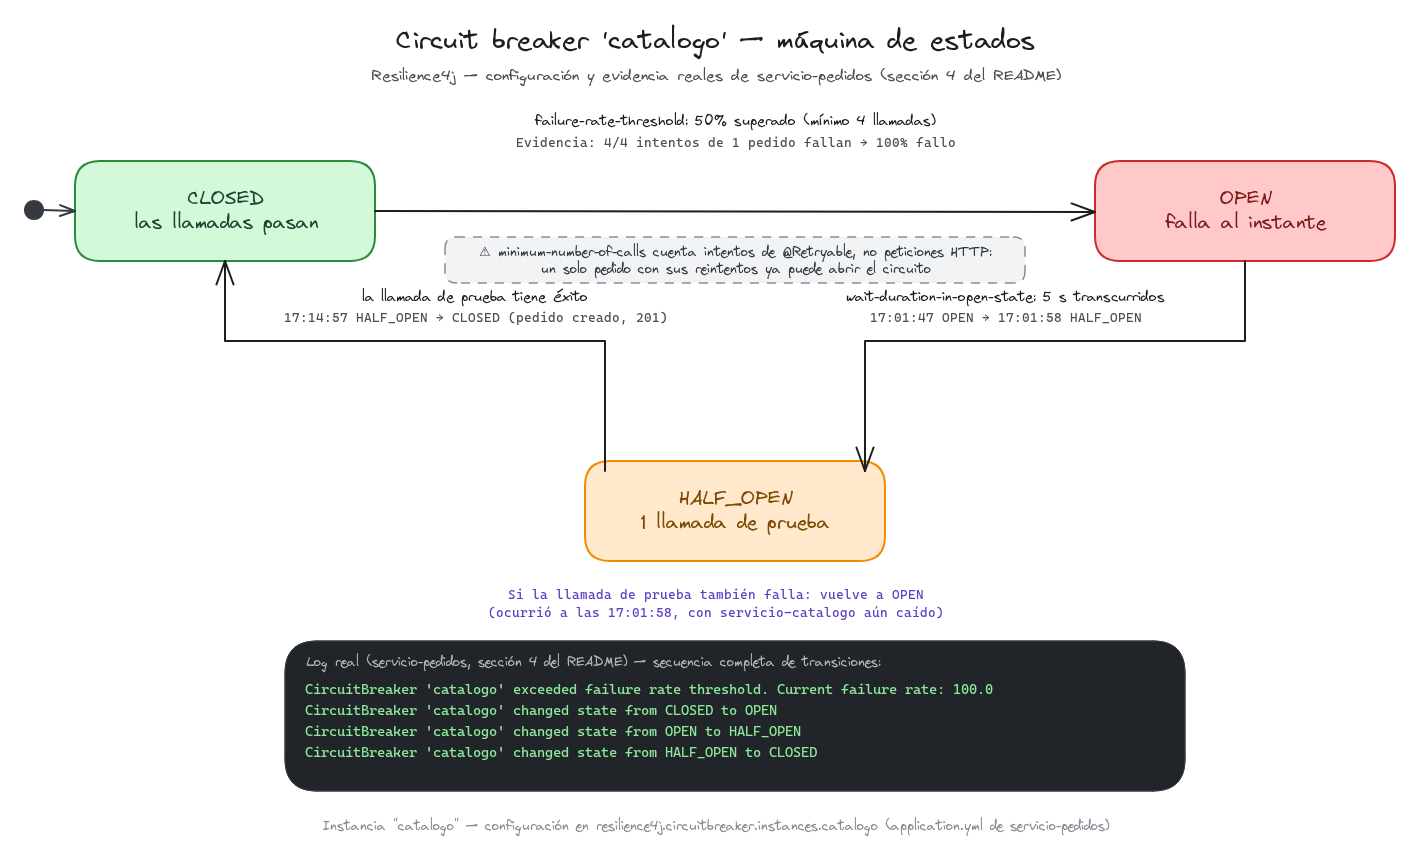
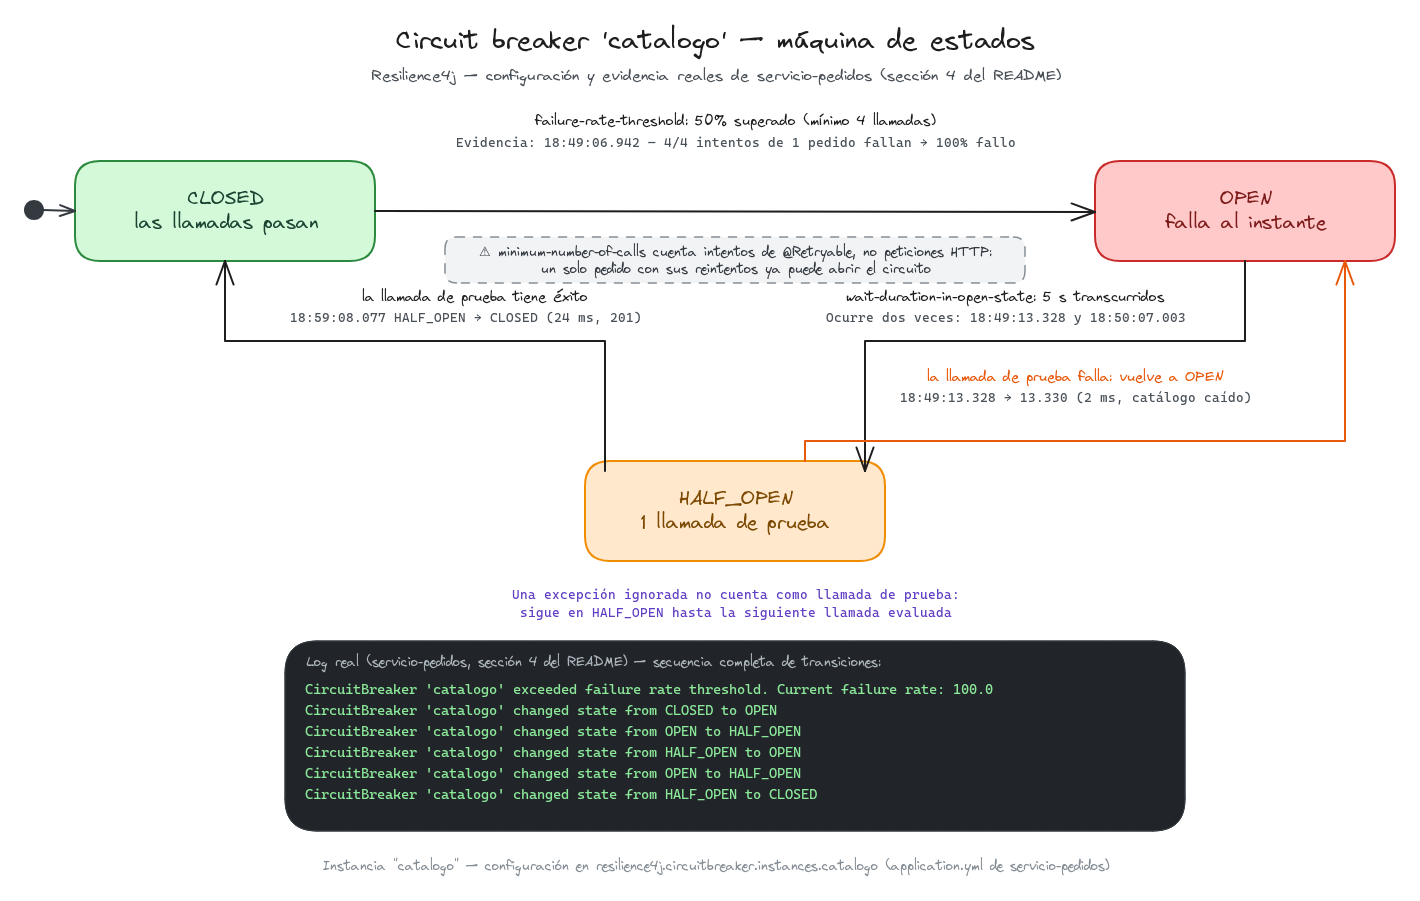
Capítulo 8: pulir la sección del circuit breaker con evidencia real completa
Traducción de Bulkhead fijada a "compartimento estanco" (sin "mamparo") en
GLOSARIO.md, README.md y CHECKLIST.md. En la sección 4, se reescribe la
explicación de por qué el circuit breaker envuelve cada intento de
@user como una decisión de diseño en vez de un hallazgo fruto de un
experimento fallido, y se detallan uno a uno los parámetros de
sliding-window-size/minimum-number-of-calls/failure-rate-threshold/
wait-duration-in-open-state/permitted-number-of-calls-in-half-open-state.

La sección 5.1 y el diagrama Excalidraw se rehacen con una traza real de
cuatro peticiones encadenadas (capturada con TRACE + DEBUG de
io.github.resilience4j), que revela y documenta la transición HALF_OPEN →
OPEN que faltaba y el caso de una excepción ignorada que no cierra el
circuito. Los curl de la demostración manual pasan a usar jq donde el
código HTTP no basta para distinguir resultados (petición concurrente y
petición final de éxito), con una nota explicando el ruido de control de
trabajos del shell en la ejecución en paralelo.

diff --git a/README.md b/README.md
@@ -129,7 +129,7 @@ Se puede comprobar el efecto real deteniendo `servicio-catalogo` y creando un pe
 
 ## 3. Límite de concurrencia con `@ConcurrencyLimit`
 
-El reintento de la sección anterior protege frente a un fallo puntual, pero no frente a otro escenario distinto: `servicio-catalogo` respondiendo *lento* en vez de fallando. Si llegan muchas creaciones de pedido a la vez y cada una se queda esperando esa respuesta lenta, las llamadas concurrentes hacia el catálogo se acumulan sin límite — y con ellas, los hilos de `servicio-pedidos` que las esperan. El **Límite de concurrencia** (Concurrency Limit) — una variante del patrón clásico Bulkhead (mamparo/compartimento estanco) — acota cuántas invocaciones de un método pueden estar en curso a la vez, para que un catálogo lento agote su propia capacidad, no la de quien lo llama.
+El reintento de la sección anterior protege frente a un fallo puntual, pero no frente a otro escenario distinto: `servicio-catalogo` respondiendo *lento* en vez de fallando. Si llegan muchas creaciones de pedido a la vez y cada una se queda esperando esa respuesta lenta, las llamadas concurrentes hacia el catálogo se acumulan sin límite — y con ellas, los hilos de `servicio-pedidos` que las esperan. El **Límite de concurrencia** (Concurrency Limit) — una variante del patrón clásico Bulkhead (compartimento estanco) — acota cuántas invocaciones de un método pueden estar en curso a la vez, para que un catálogo lento agote su propia capacidad, no la de quien lo llama.
 
 Se aplica con `@ConcurrencyLimit`, apilada junto a `@Retryable` sobre el mismo método:
 
@@ -275,15 +275,33 @@ resilience4j:
           - org.springframework.resilience.InvocationRejectedException
 ```
 
+Uno a uno:
+
+- `sliding-window-size`: **de cuántas llamadas se acuerda** Resilience4j. Imagínalo como una cola de capacidad fija de `4` casillas donde se apila el resultado (éxito/fallo) de cada llamada; al llegar una quinta llamada, la más antigua se descarta para dejar sitio. Esta cola es lo único que se usa para calcular la tasa de fallo — nunca mira más atrás.
+- `minimum-number-of-calls`: **a partir de cuántas llamadas** Resilience4j se atreve a calcular esa tasa de fallo. Con solo 1 llamada registrada, un único fallo daría una tasa de fallo del 100 %, pero un caso no es una muestra fiable de que `servicio-catalogo` esté realmente caído — así que hasta no reunir `4` llamadas en la cola, Resilience4j ni siquiera calcula el porcentaje, y el circuito no puede abrirse por mucho que fallen las primeras llamadas.
+- `failure-rate-threshold`: el umbral, en porcentaje, que dispara la apertura del circuito una vez cumplido `minimum-number-of-calls`. Aquí, `50` — en cuanto la mitad o más de las llamadas de la cola son fallos, `CLOSED` pasa a `OPEN`.
+- `wait-duration-in-open-state`: cuánto tiempo se queda el circuito en `OPEN`, fallando al instante sin ni siquiera intentar la llamada real, antes de darle a `servicio-catalogo` una oportunidad de demostrar que se ha recuperado. Aquí, `5s`.
+- `permitted-number-of-calls-in-half-open-state`: pasada esa espera, cuántas llamadas de prueba deja pasar el circuito en `HALF_OPEN` para decidir si vuelve a `CLOSED` o si vuelve a `OPEN`. Aquí, `1` — basta con que esa única llamada de prueba tenga éxito para cerrar el circuito otra vez, o con que falle para reabrirlo.
+- `ignore-exceptions`: qué excepciones no cuentan como "fallo" a efectos de la cola, aunque la llamada termine en error — se explica en detalle más abajo, es la decisión más importante de este bloque.
+
+`sliding-window-size` y `minimum-number-of-calls` son los dos que más se prestan a confusión, porque aquí comparten el mismo valor. Responden a preguntas distintas — uno es la memoria, el otro el arranque —, y con la configuración de este capítulo, `4` y `4`, el rastro sería así:
+
+```
+Llamada 1 (falla): cola = [F]          → 1 de 4 registradas, aún sin evaluar
+Llamada 2 (falla): cola = [F,F]        → 2 de 4 registradas, aún sin evaluar
+Llamada 3 (falla): cola = [F,F,F]      → 3 de 4 registradas, aún sin evaluar
+Llamada 4 (falla): cola = [F,F,F,F]    → 4 de 4 registradas → ya se evalúa: 4/4 = 100 % ≥ 50 % → CLOSED pasa a OPEN
+```
+
+Que ambos valgan lo mismo no es casualidad: significa que la primera evaluación posible coincide exactamente con el momento en que la cola se llena por primera vez, sin ningún hueco intermedio. Si `minimum-number-of-calls` fuera menor que `sliding-window-size` (p. ej. `2` con una ventana de `4`), Resilience4j empezaría a evaluar antes de que la cola llegara a llenarse — el circuito podría abrirse ya con solo 2 llamadas fallidas, sin esperar a las otras 2 casillas.
+
 `ignore-exceptions` es la decisión más importante de este bloque, con el mismo espíritu que el `includes` de `@Retryable` en la sección 2: un `404` legítimo (`ProductoInexistenteException` — el producto de verdad no existe) no es una señal de que el catálogo esté fallando, y un rechazo por saturación propia (`InvocationRejectedException` — nuestra propia sección 3 autolimitándose) tampoco lo es. Sin excluirlas, ambas contarían como "fallos" en la ventana de Resilience4j y podrían abrir el circuito por motivos que nada tienen que ver con la salud real de `servicio-catalogo`.
 
-### Un descubrimiento al combinar los tres: el circuit breaker envuelve cada intento, no la llamada completa
+### El circuit breaker envuelve cada intento, no la llamada completa
 
-Al escribir esta sección apareció un primer diseño que parecía razonable pero resultó estar mal: un segundo método de `fallback` para `ResourceAccessException` (además del de `CallNotPermittedException`), pensado para traducir también el fallo de "reintentos agotados con el circuito aún cerrado" a un `ProblemDetail` propio. Al probarlo, los reintentos de la sección 2 dejaron de funcionar — cada llamada fallaba en 1 ms, sin ningún backoff.
+Resilience4j envuelve cada **intento individual** de `@Retryable`, no la llamada externa completa — una precisión clave a la hora de diseñar el `fallback` de la sección anterior. Por eso solo existe un método de `fallback`, para `CallNotPermittedException` (circuito abierto): un segundo `fallback` para `ResourceAccessException`, pensado para traducir a un `ProblemDetail` propio el fallo de "reintentos agotados con el circuito aún cerrado", rompería los reintentos de la sección 2. En cuanto el primer intento fallara con `ResourceAccessException`, Resilience4j lo interceptaría y lo convertiría en `CatalogoNoDisponibleException` antes de que `@Retryable` pudiera verlo — y como esa excepción no está en su `includes`, `@Retryable` abortaría sin reintentar. El `fallback` del circuit breaker se "comería" la excepción que los reintentos necesitan ver.
 
-La causa: Resilience4j envuelve cada **intento individual** de `@Retryable`, no la llamada externa completa. Con ese segundo `fallback` registrado, en cuanto el primer intento fallaba con `ResourceAccessException`, Resilience4j lo interceptaba y lo convertía en `CatalogoNoDisponibleException` antes de que `@Retryable` pudiera verlo — y como esa excepción no está en su `includes`, `@Retryable` abortaba sin reintentar. El `fallback` de la circuitbreaker "se comía" la excepción que los reintentos necesitaban ver.
-
-La solución fue quitar ese segundo `fallback` y dejar que `ResourceAccessException` se propague sin traducir cuando el circuito está cerrado — así `@Retryable` la ve tal cual y reintenta con normalidad. Si los 4 intentos se agotan sin que el circuito llegue a abrirse, la excepción llega intacta hasta `ControladorErroresGlobal`, que la traduce directamente (sin pasar por Resilience4j):
+Por eso `ResourceAccessException` se deja propagar sin traducir mientras el circuito está cerrado: así `@Retryable` la ve tal cual y reintenta con normalidad. Si los 4 intentos se agotan sin que el circuito llegue a abrirse, la excepción llega intacta hasta `ControladorErroresGlobal`, que la traduce directamente (sin pasar por Resilience4j):
 
 ```java
 // servicio-pedidos/.../infraestructura/adaptador/entrada/rest/ControladorErroresGlobal.java
@@ -302,20 +320,30 @@ Esto también explica por qué el circuito puede abrirse **dentro de una sola pe
 Prueba real, encadenada:
 
 ```
-Petición 1 (circuito CLOSED): 4 intentos con backoff real (~1,55 s) → los 4 fallan → CLOSED pasa a OPEN
-                               → responde 503 "Catálogo no disponible" (vía ResourceAccessException)
-Petición 2 (circuito OPEN):   falla al instante (0,24 s) → CallNotPermittedException → fallback
-                               → responde 503 "Catálogo no disponible" (vía CatalogoNoDisponibleException, con productoId)
-[...servicio-catalogo se levanta...]
-Petición 3 (pasada la ventana de 5 s, circuito en HALF_OPEN): la llamada de prueba llega de verdad al catálogo,
-                               tiene éxito → HALF_OPEN pasa a CLOSED → responde 201 (pedido creado con normalidad)
+Petición 1 (18:49:05, circuito CLOSED):     4 intentos con backoff real (~1,57 s) → los 4 fallan → CLOSED pasa a OPEN
+                                             → responde 503 "Catálogo no disponible" (vía ResourceAccessException)
+Petición 2 (18:49:13, circuito OPEN):       pasados >5 s, el circuito ya está en HALF_OPEN al llegar la petición
+                                             → la llamada de prueba falla (catálogo aún caído) → HALF_OPEN vuelve a OPEN al instante (2 ms)
+                                             → responde 503 "Catálogo no disponible" (vía CatalogoNoDisponibleException, con productoId)
+[...servicio-catalogo se levanta, todavía sin el producto de prueba creado...]
+Petición 3 (18:50:07, circuito OPEN):       pasados otros >5 s, el circuito pasa a HALF_OPEN de nuevo
+                                             → la llamada de prueba llega de verdad al catálogo, pero el producto no existe (404)
+                                             → ProductoInexistenteException, ignorada por ignore-exceptions: ni cuenta como fallo
+                                               ni cierra el circuito — se queda en HALF_OPEN
+[...se crea un producto real en servicio-catalogo...]
+Petición 4 (18:59:08, circuito HALF_OPEN):  la llamada de prueba tiene éxito (24 ms) → HALF_OPEN pasa a CLOSED
+                                             → responde 201 (pedido creado con normalidad)
 ```
+
+La petición 3 deja una precisión interesante sobre `permitted-number-of-calls-in-half-open-state`: una excepción ignorada no cuenta como una de esas llamadas de prueba permitidas — ni a favor ni en contra —, así que el circuito se queda esperando en `HALF_OPEN` una llamada que sí se evalúe de verdad, por mucho tiempo que pase entre medias (aquí, más de 8 minutos).
 
 Y en los logs, la secuencia completa de transiciones de estado:
 
 ```
 CircuitBreaker 'catalogo' exceeded failure rate threshold. Current failure rate: 100.0
 CircuitBreaker 'catalogo' changed state from CLOSED to OPEN
+CircuitBreaker 'catalogo' changed state from OPEN to HALF_OPEN
+CircuitBreaker 'catalogo' changed state from HALF_OPEN to OPEN
 CircuitBreaker 'catalogo' changed state from OPEN to HALF_OPEN
 CircuitBreaker 'catalogo' changed state from HALF_OPEN to CLOSED
 ```
@@ -328,13 +356,27 @@ Hay dos formas de comprobar todo lo anterior: una demostración manual (parando 
 
 ### 5.1. Demostración manual
 
-Con `servicio-catalogo` **parado** y `servicio-pedidos` arrancado con el log de resiliencia en `TRACE` para ver reintentos y transiciones del circuito en los logs (`./mvnw -pl servicio-pedidos spring-boot:run -Dspring-boot.run.arguments=--logging.level.org.springframework.resilience=TRACE`), cada creación de pedido reintenta y acaba fallando:
+Con `servicio-catalogo` **parado**, arranca `servicio-pedidos` con el log de resiliencia en `TRACE` para ver reintentos y transiciones del circuito en los logs:
 
 ```bash
-curl -s -o /dev/null -w "%{http_code}\n" -X POST http://localhost:8081/api/pedidos \
+./mvnw -pl servicio-pedidos spring-boot:run -Dspring-boot.run.arguments=--logging.level.org.springframework.resilience=TRACE
+```
+
+> **¿Por qué estos `curl` no muestran el cuerpo de la respuesta?**
+>
+> A diferencia de los `curl` de capítulos anteriores, aquí lo único que interesa para observar la resiliencia es el código HTTP y cuánto ha tardado la petición — no el JSON devuelto. Tres flags nuevas lo consiguen:
+>
+> - `-s` (silent): no mostrar la barra de progreso de `curl`.
+> - `-o /dev/null`: descartar el cuerpo de la respuesta.
+> - `-w "%{http_code} (%{time_total}s)\n"` (write-out): en vez del cuerpo, imprimir esta plantilla con dos variables que `curl` rellena al terminar la petición — `%{http_code}` (el código HTTP) y `%{time_total}` (segundos totales, con decimales).
+
+Cada creación de pedido reintenta y acaba fallando:
+
+```bash
+curl -s -o /dev/null -w "%{http_code} (%{time_total}s)\n" -X POST http://localhost:8081/api/pedidos \
   -H "Content-Type: application/json" \
   -d '{"clienteId":"3fa85f64-5717-4562-b3fc-2c963f66afa6","lineas":[{"productoId":"3fa85f64-5717-4562-b3fc-2c963f66afaa","cantidad":1}]}'
-# La primera petición tarda ~1,5 s (4 intentos con backoff) y devuelve 503 "Catálogo no disponible";
+# 503 (1.55s) — 4 intentos con backoff antes de responder "Catálogo no disponible";
 # con minimum-number-of-calls=4, esos mismos 4 intentos ya bastan para abrir el circuito.
 ```
 
@@ -347,25 +389,47 @@ curl -s -o /dev/null -w "%{http_code} (%{time_total}s)\n" -X POST http://localho
 # 503 (0.24s) — CallNotPermittedException -> catalogoNoDisponible, sin tocar la red
 ```
 
-Lanzando 3 peticiones concurrentes (`limit = 2` en `@ConcurrencyLimit`) se ve el rechazo por saturación, distinto del anterior:
+Lanzando 3 peticiones concurrentes (`limit = 2` en `@ConcurrencyLimit`) se ve el rechazo por saturación, distinto del anterior — pero aquí `%{http_code}` no sirve: los dos errores posibles (circuito abierto y saturación por concurrencia) responden el mismo `503`. La única forma de distinguirlos es el propio cuerpo de la respuesta (el campo `title` del `ProblemDetail`), así que esta vez sí lo conservamos — sin `-o /dev/null` — y lo extraemos con `jq`:
 
 ```bash
 for i in 1 2 3; do
-  curl -s -o /dev/null -w "req$i: %{http_code}\n" -X POST http://localhost:8081/api/pedidos \
+  curl -s -X POST http://localhost:8081/api/pedidos \
     -H "Content-Type: application/json" \
-    -d '{"clienteId":"3fa85f64-5717-4562-b3fc-2c963f66afa6","lineas":[{"productoId":"3fa85f64-5717-4562-b3fc-2c963f66afaa","cantidad":1}]}' &
+    -d '{"clienteId":"3fa85f64-5717-4562-b3fc-2c963f66afa6","lineas":[{"productoId":"3fa85f64-5717-4562-b3fc-2c963f66afaa","cantidad":1}]}' \
+    | jq -r --arg i "$i" '"req\($i): " + .title' &
 done
 wait
-# req1/req2: 503 "Catálogo no disponible" — req3: 503 "Catálogo saturado" (InvocationRejectedException)
+# Dos peticiones: "Catálogo no disponible" (circuito ya OPEN) — una: "Catálogo saturado" (InvocationRejectedException)
+# El orden de las tres líneas en la consola varía entre ejecuciones: se lanzan en paralelo con `&`.
 ```
 
-Y levantando `servicio-catalogo` (con al menos un producto creado) y esperando los `wait-duration-in-open-state: 5s` configurados, la siguiente petición ya se sirve con normalidad — la llamada de prueba en `HALF_OPEN` tiene éxito y cierra el circuito:
+> **¿Y esas líneas con corchetes tipo `[2] 61154 61155`?**
+>
+> Son del propio shell (aquí `zsh`), no de `curl` ni de `jq`: cada vez que se lanza un proceso en segundo plano con `&` se le asigna un número de trabajo y se muestran sus PID — dos en este caso, uno por cada lado de la tubería `curl | jq`. Al terminar, el shell imprime además una línea `[N]  + done  <comando>` por cada trabajo. Es ruido de control de trabajos intercalado con la salida real (`req1: ...`, `req2: ...`, `req3: ...`); se puede ignorar sin más, y no aparecería si el bucle se ejecutara desde un script en vez de pegarlo directamente en una sesión interactiva. Una ejecución real tiene este aspecto:
+>
+> ```
+> [2] 61154 61155
+> [3] 61156 61157
+> [4] 61158 61159
+> req3: Catálogo saturado
+> [4]  + done       curl -s -X POST http://localhost:8081/api/pedidos -H  -d  | jq -r --arg i "$i" '"req\($i): " + .title'
+> req2: Catálogo no disponible
+> [3]  + done       curl -s -X POST http://localhost:8081/api/pedidos -H  -d  | jq -r --arg i "$i" '"req\($i): " + .title'
+> req1: Catálogo no disponible
+> [2]  + done       curl -s -X POST http://localhost:8081/api/pedidos -H  -d  | jq -r --arg i "$i" '"req\($i): " + .title'
+> ```
+>
+> Las tres líneas que importan son `req3: Catálogo saturado`, `req2: Catálogo no disponible` y `req1: Catálogo no disponible` — el resto es control de trabajos del shell.
+
+Y levantando `servicio-catalogo` (con al menos un producto creado) y esperando los `wait-duration-in-open-state: 5s` configurados, la siguiente petición ya se sirve con normalidad — la llamada de prueba en `HALF_OPEN` tiene éxito y cierra el circuito. Al contrario que en los `curl` anteriores, aquí lo interesante ya no es el código HTTP ni el tiempo, sino el propio pedido creado — así que en vez de descartarlo lo extraemos con `jq`, igual que en la petición concurrente:
 
 ```bash
 curl -s -X POST http://localhost:8081/api/pedidos \
   -H "Content-Type: application/json" \
-  -d '{"clienteId":"3fa85f64-5717-4562-b3fc-2c963f66afa6","lineas":[{"productoId":"<productoId-real>","cantidad":2}]}'
-# 201 Created — el pedido se crea con normalidad
+  -d '{"clienteId":"3fa85f64-5717-4562-b3fc-2c963f66afa6","lineas":[{"productoId":"<productoId-real>","cantidad":2}]}' \
+  | jq -r '"pedido creado: " + .id + " (total: " + (.total | tostring) + ")"'
+# pedido creado: 3fa85f64-5717-4562-b3fc-2c963f66afab (total: 39.98)
+# Si jq consigue parsear un PedidoDTO válido, la petición ha respondido 201 — no hace falta comprobar el código aparte.
 ```
 
 ### 5.2. Test de integración con `MockRestServiceServer`

diff --git a/CHECKLIST.md b/CHECKLIST.md
@@ -75,7 +75,7 @@ Descartados por forzados para este dominio o sin desarrollo futuro: Spring for A
 
 ## Resiliencia
 - [x] Reintentos — `@Retryable` nativo de Spring Framework 7 (`@EnableResilientMethods`, capítulo 8) sobre la llamada de `servicio-pedidos` a `servicio-catalogo`; acotado a `ResourceAccessException` (fallo de red/timeout) para no reintentar el `404` de negocio (`ProductoInexistenteException`)
-- [x] Límite de concurrencia — `@ConcurrencyLimit` (capítulo 8), política `REJECT` (variante del patrón Bulkhead) para fallar rápido en vez de acumular hilos de `servicio-pedidos` esperando a un catálogo lento
+- [x] Límite de concurrencia — `@ConcurrencyLimit` (capítulo 8), política `REJECT` (variante del patrón Bulkhead, compartimento estanco) para fallar rápido en vez de acumular hilos de `servicio-pedidos` esperando a un catálogo lento
 - [x] Circuit breaker — Resilience4j (capítulo 8), no Spring Cloud Circuit Breaker (superseded); máquina de estados `CLOSED`/`OPEN`/`HALF_OPEN` verificada tanto manualmente como con test de integración (`MockRestServiceServer`)
 
 ## Procesamiento por lotes

diff --git a/GLOSARIO.md b/GLOSARIO.md
@@ -33,7 +33,7 @@ Documentación interna de desarrollo (como `CLAUDE.md`/`CHECKLIST.md`): no forma
 | Capa Anticorrupción | Anti-Corruption Layer | Traduce la respuesta de un Contexto Delimitado ajeno (p. ej. `servicio-catalogo`) a un tipo propio del Contexto que la consume, en vez de propagar el contrato externo tal cual |
 | Reintento | Retry | Mecanismo de resiliencia que repite una operación fallida un número acotado de veces, normalmente con espera creciente (backoff exponencial) entre intentos, antes de propagar el fallo definitivamente |
 | — | Backoff | Estrategia de espera creciente entre reintentos sucesivos (típicamente duplicando el tiempo de espera en cada intento, "backoff exponencial"); sin traducción española de uso consolidado |
-| Límite de concurrencia | Concurrency Limit | Acota cuántas invocaciones de un método pueden estar en curso a la vez; variante del patrón clásico Bulkhead (mamparo/compartimento estanco), sin traducción española de uso consolidado |
+| Límite de concurrencia | Concurrency Limit | Acota cuántas invocaciones de un método pueden estar en curso a la vez; variante del patrón clásico Bulkhead (compartimento estanco), sin traducción española de uso consolidado |
 | — | Circuit Breaker | Máquina de estados (`CLOSED`/`OPEN`/`HALF_OPEN`) que deja de invocar un servicio que falla de forma sostenida, para no insistir contra algo que ya se sabe que no responde; sin traducción española de uso consolidado en la literatura de resiliencia |
 | Método de reserva | Fallback Method | Método alternativo invocado cuando la llamada protegida falla o el circuito está abierto, en vez de propagar la excepción original |
 | — | Jitter | Variación aleatoria añadida a cada espera de un backoff exponencial, para que reintentos que fallaron a la vez no se sincronicen también al reintentar; sin traducción española de uso consolidado |